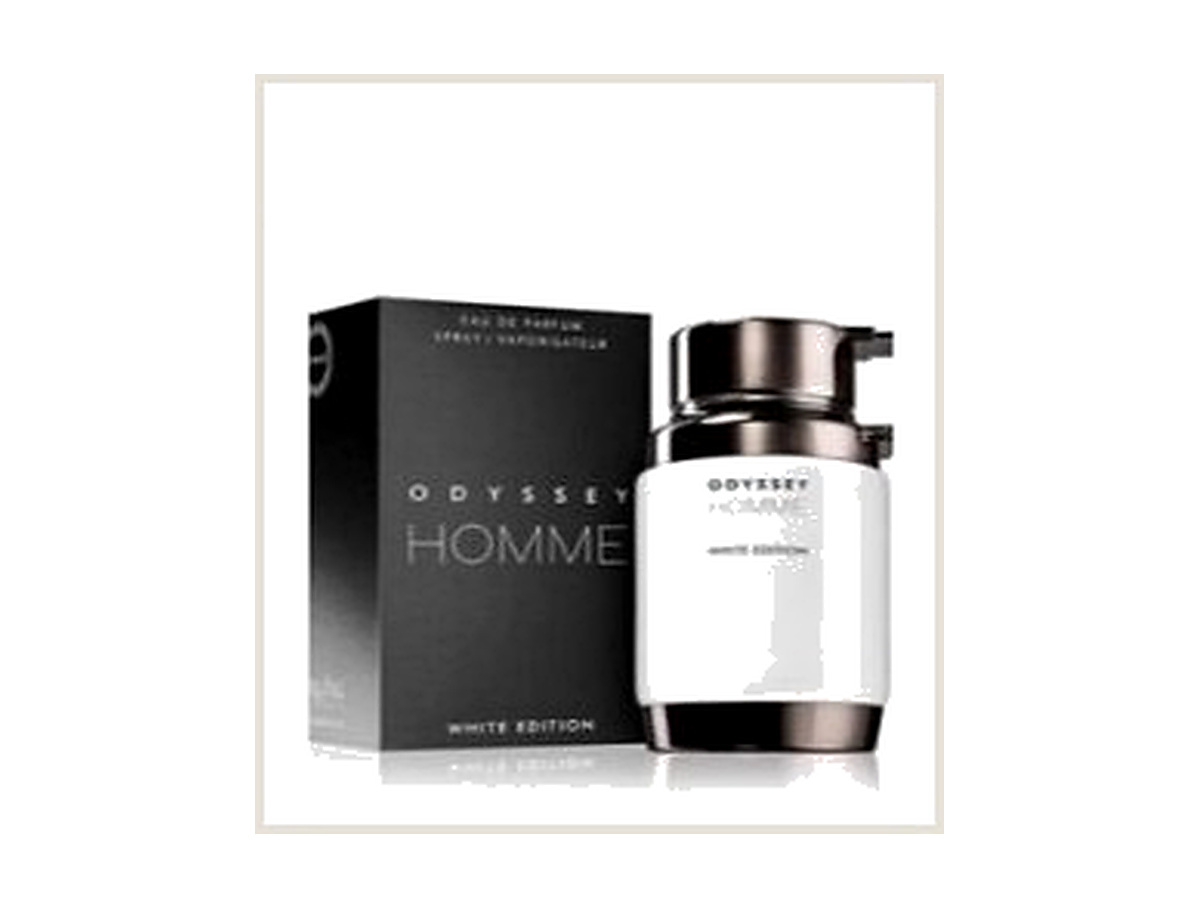
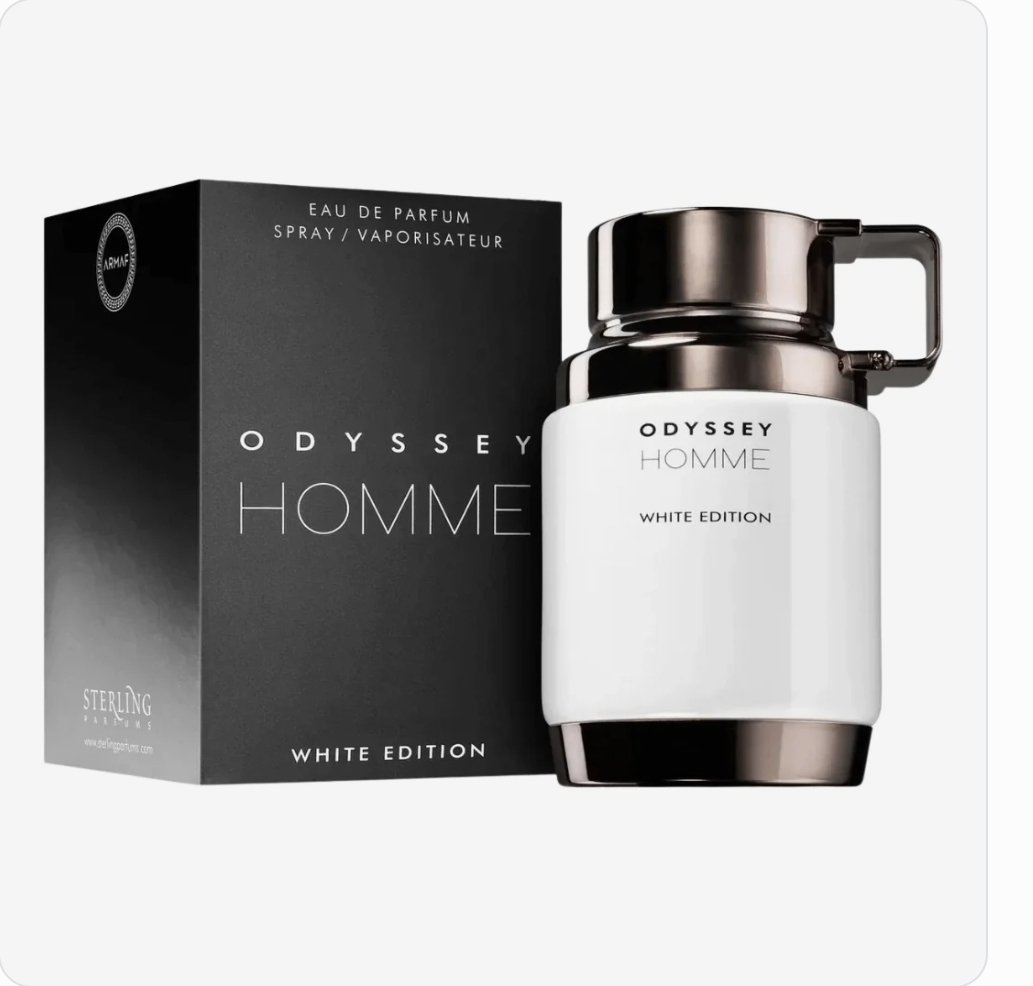
Replace Odyssey Homme White Edition photos with Boss's new shots

diff --git a/index.html b/index.html
@@ -719,7 +719,7 @@
         { name:'Carolina Herrera Good Girl Perfume for Women', niche:'Carolina Herrera · Women · 2.7 oz EDP', direction:'White florals, cacao and tonka', description:'Lush white florals meet a darker base of cacao, tonka and warm woods. Glamorous and dramatic, with a sweet evening character.', category:'sweet', images:[{src:'assets/product-carolina-herrera-good-girl.jpg', alt:'Carolina Herrera Good Girl stiletto bottle and box — clean packshot'}], price:105, decantPrice:26, originalPrice:125, featured:28 , paymentLink:'https://buy.stripe.com/7sY28tgHn5fSf8u0i7f7i0O'},
         { name:'Mont Blanc Explorer Cologne for Men (Tester)', niche:'Mont Blanc · Men · 3.3 oz EDP · Tester', direction:'Bergamot, aromatic woods and leather', description:'Tester version: the authentic 3.3 oz fragrance supplied in tester packaging rather than standard retail presentation. Fresh bergamot moves into aromatic woods and a smooth leather-toned base.', category:'woody', images:[{src:'assets/product-montblanc-explorer-tester.jpg', alt:'Mont Blanc Explorer tester bottle and tester box — clean packshot'},{src:'assets/gallery-montblanc-explorer-1.jpg', alt:'Mont Blanc Explorer Cologne for Men (Tester) — customer photo 1'},{src:'assets/gallery-montblanc-explorer-2.jpg', alt:'Mont Blanc Explorer Cologne for Men (Tester) — customer photo 2'},{src:'assets/gallery-montblanc-explorer-3.jpg', alt:'Mont Blanc Explorer Cologne for Men (Tester) — customer photo 3'}], price:49, decantPrice:12, originalPrice:62, featured:29 , paymentLink:'https://buy.stripe.com/4gMcN7ezf5fSf8u0i7f7i1l'},
         { name:'Afnan 9PM Night Out Perfume for Unisex', niche:'Afnan · Unisex · 3.4 oz Extrait de Parfum', direction:'Spiced fruit, warm amber and woods', description:'A concentrated mix of sweet fruit and spice settles into warm amber and dark woods. Rich, long-wearing and designed for an expressive night-out mood.', category:'sweet', images:[{src:'assets/product-afnan-9pm-night-out.jpg', alt:'Afnan 9PM Night Out bottle and black box — clean packshot'},{src:'assets/gallery-afnan-9pm-night-out-1.jpg', alt:'Afnan 9PM Night Out Perfume for Unisex — customer photo 1'},{src:'assets/gallery-afnan-9pm-night-out-2.jpg', alt:'Afnan 9PM Night Out Perfume for Unisex — customer photo 2'}], price:49, decantPrice:12, originalPrice:60, featured:30 , paymentLink:'https://buy.stripe.com/5kQ3cx62JeQsd0mfd1f7i18'},
-        { name:'Armaf Odyssey Homme White Edition Cologne for Men', niche:'Armaf · Men · 3.4 oz EDP', direction:'Fresh spice, vanilla and smooth woods', description:'A crisp aromatic opening is softened by warm spice, creamy vanilla and clean woods. Versatile and inviting with a smooth modern finish.', category:'fresh', images:[{src:'assets/product-armaf-odyssey-homme-white.jpg', alt:'Armaf Odyssey Homme White Edition bottle and box — clean packshot'}], price:29, decantPrice:7, originalPrice:36, featured:31, paymentLink:'https://buy.stripe.com/eVq4gB0IpaAce4q4ynf7i0Y'},
+        { name:'Armaf Odyssey Homme White Edition Cologne for Men', niche:'Armaf · Men · 3.4 oz EDP', direction:'Fresh spice, vanilla and smooth woods', description:'A crisp aromatic opening is softened by warm spice, creamy vanilla and clean woods. Versatile and inviting with a smooth modern finish.', category:'fresh', images:[{src:'assets/product-armaf-odyssey-homme-white.jpg', alt:'Armaf Odyssey Homme White Edition bottle and box on a clean white background'},{src:'assets/product-armaf-odyssey-homme-white-2.jpg', alt:'Armaf Odyssey Homme White Edition bottle in a styled ingredient flat-lay'}], price:29, decantPrice:7, originalPrice:36, featured:31, paymentLink:'https://buy.stripe.com/eVq4gB0IpaAce4q4ynf7i0Y'},
         { name:'Ariana Grande Cloud Perfume for Women (Tester)', niche:'Ariana Grande · Women · 3.4 oz EDP · Tester', direction:'Lavender, coconut cream and soft musk', description:'Tester version: the authentic 3.4 oz fragrance supplied in tester packaging rather than standard retail presentation. Airy lavender and fruit float over coconut cream, vanilla and soft musk.', category:'sweet', images:[{src:'assets/product-ariana-grande-cloud-tester.jpg', alt:'Ariana Grande Cloud tester bottle and tester box — clean packshot'},{src:'assets/gallery-ariana-grande-cloud-1.jpg', alt:'Ariana Grande Cloud Perfume for Women (Tester) — customer photo 1'}], price:45, decantPrice:11, originalPrice:56, featured:32 , paymentLink:'https://buy.stripe.com/fZu4gB1Mt6jWe4q6Gvf7i0I'},
         { name:'Dior Sauvage Parfum Cologne for Men', niche:'Dior · Men · 3.4 oz Parfum', direction:'Citrus, spice and sandalwood', description:'A fresh citrus opening gains depth from smooth spice, resinous warmth and sandalwood. Refined and full-bodied, with a polished lasting trail.', category:'woody', images:[{src:'assets/product-dior-sauvage-parfum.jpg', alt:'Dior Sauvage Parfum dark blue bottle — clean packshot'}], price:165, decantPrice:41, originalPrice:180, featured:33 , paymentLink:'https://buy.stripe.com/7sY7sNaiZ8s41hE9SHf7i0J'},
         { name:'Jimmy Choo Perfume for Women', niche:'Jimmy Choo · Women · 3.3 oz EDP', direction:'Pear, orchid and sweet patchouli', description:'Juicy pear and a luminous floral heart settle into warm toffee-toned sweetness and patchouli. Glamorous and inviting without losing its elegance.', category:'sweet', images:[{src:'assets/product-jimmy-choo.jpg', alt:'Jimmy Choo perfume bottle on a clean white background'},{src:'assets/product-jimmy-choo-2.jpg', alt:'Jimmy Choo perfume bottle held in a campaign-style shot'}], price:62, decantPrice:16, originalPrice:75, featured:34 , paymentLink:'https://buy.stripe.com/14AbJ3cr75fSgcy8ODf7i0H'},
